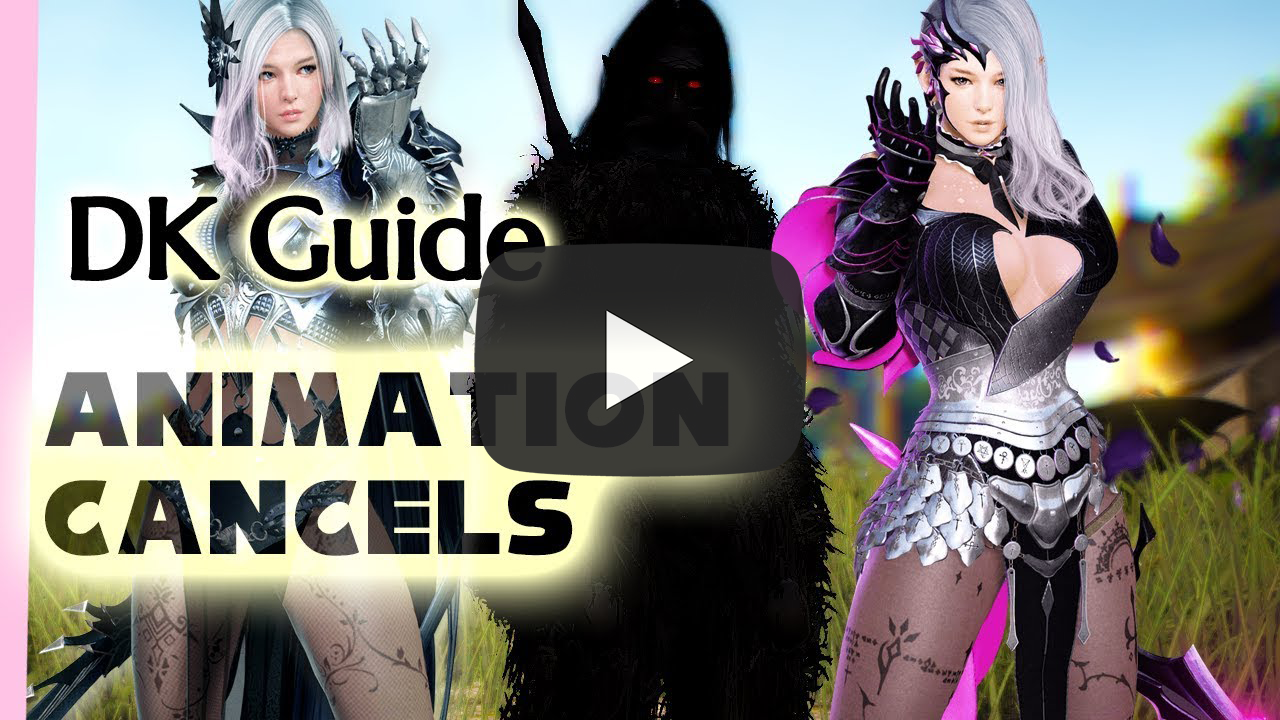
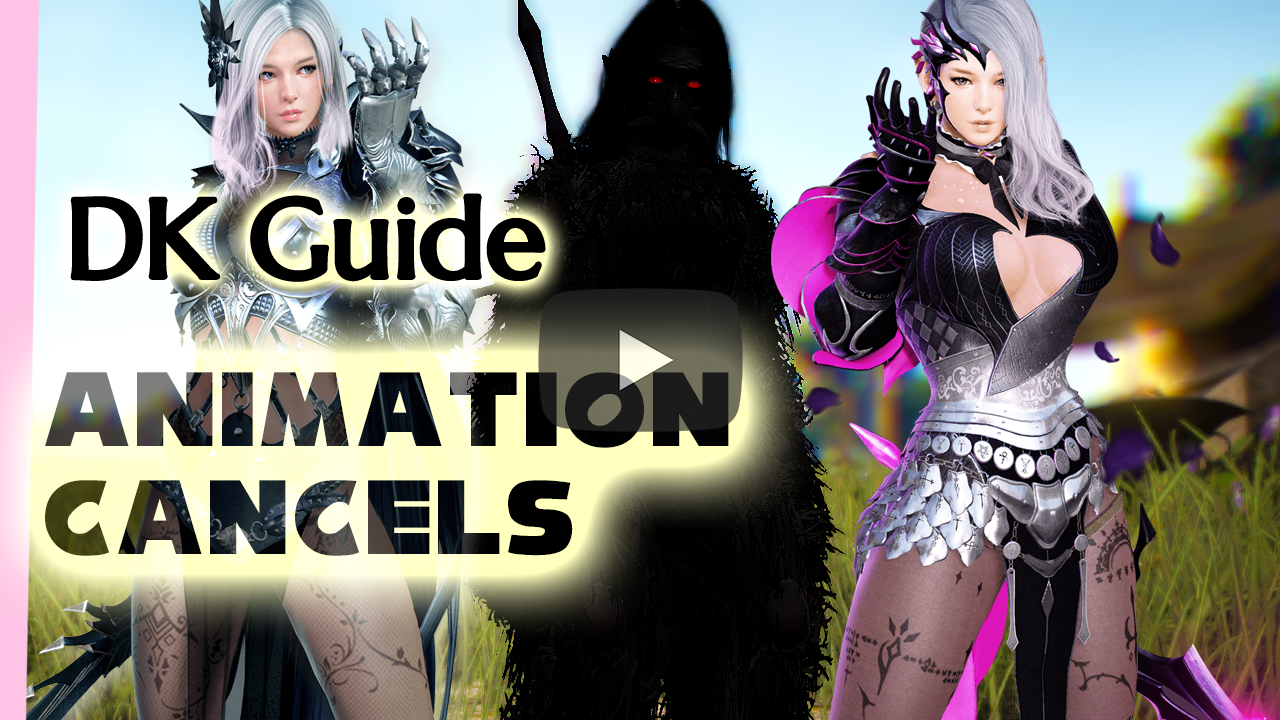
finished for now

diff --git a/bdo/dk/index.html b/bdo/dk/index.html
@@ -144,12 +144,27 @@
         }
     }
     </script>
+    
+    <style type="text/css">
+    .video {
+        -moz-box-shadow: 0 0 25px #fcf7c0;
+        -webkit-box-shadow: 0 0 25px #fcf7c0;
+        box-shadow: 0px 0px 25px #fcf7c0;
+    }
+    .video:hover {
+        -moz-box-shadow: 0 0 50px #fcf7c0;
+        -webkit-box-shadow: 0 0 50px #fcf7c0;
+        box-shadow: 0px 0px 50px #fcf7c0;
+    }
+    </style>    
         
     <div class="contentspace"></div>
     <h2 id="dk2" class="white">Animation Cancels</h2>
-    <a class="play-1" href="https://www.youtube.com/watch?v=7HD3vyekmKM">
-        <center><img src="../../image/dkac.png" height="50%" width="50%" align="center"></center>
-    </a>
+    <div class="video">
+        <a class="play-1" href="https://www.youtube.com/watch?v=7HD3vyekmKM">
+            <center><img src="../../image/dkac.png" height="100%" width="100%" align="center"></center>
+        </a>
+    </div>    
         
         
     <!-- End Body Here -->

diff --git a/index.html b/index.html
@@ -110,7 +110,7 @@
     </style>
     
     <div class="video">
-        <a class="play-1" href="https://www.youtube.com/watch?v=AIjA3OQxsxA">
+        <a class="play-1" href="https://www.youtube.com/watch?v=LwyIRXShiY8">
             <center><img src="image/indexvid.png" height="100%" width="100%" align="center"></center>
         </a>
     </div>
